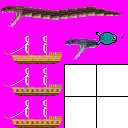
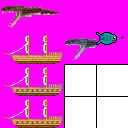
Edited

Changed region(s): [[0.25, 0.0312, 0.9688, 0.1562]]

diff --git a/src/com/breakfastsoftware/kraken/entities/PlayerSegment.java b/src/com/breakfastsoftware/kraken/entities/PlayerSegment.java
@@ -12,12 +12,18 @@ public class PlayerSegment extends Entity {
     protected Entity parent;
 
     public PlayerSegment(Entity parent) {
-        super(parent.getX(), parent.getY()+2, Sprite.PLAYERSEGMENT);
+        super(parent.getX()-Sprite.PLAYERSEGMENT.WIDTH, parent.getY()+2, Sprite.PLAYERSEGMENT);
         this.parent = parent;
     }
 
     public PlayerSegment(Entity parent, int difference) {
-        super(parent.getX(), parent.getY()+2, Sprite.PLAYERSEGMENT);
+        super(parent.getX()-Sprite.PLAYERSEGMENT.WIDTH, parent.getY()+2, Sprite.PLAYERSEGMENT);
+        this.parent = parent;
+        this.difference = difference;
+    }
+
+    public PlayerSegment(Entity parent, int difference, Sprite sprite) {
+        super(parent.getX()-sprite.WIDTH, parent.getY()+2, sprite);
         this.parent = parent;
         this.difference = difference;
     }
@@ -28,7 +34,7 @@ public class PlayerSegment extends Entity {
             y = parent.getY()-1+difference;
         }
         else if (parent.getY() < y-1) {
-            y = parent.getY()+1;
+            y = parent.getY()+1+difference;
         }
         if (Calculations.collision(parent.getX(), parent.getY(), parent.getWidth(), parent.getHeight(), x, y, w, h)) {
             direction = parent.getDirection();

diff --git a/src/com/breakfastsoftware/kraken/entities/Player.java b/src/com/breakfastsoftware/kraken/entities/Player.java
@@ -27,6 +27,9 @@ public class Player extends Entity {
 		segments.add(new PlayerSegment(this, 1));
 		for (int i = 0; i < 7; i++)
 			segments.add(new PlayerSegment(segments.get(i)));
+		segments.add(new PlayerSegment(segments.get(segments.size()-1), 0, Sprite.PLAYERLEGS));
+		segments.add(new PlayerSegment(segments.get(segments.size()-1), 0, Sprite.PLAYERFEET));
+		segments.add(new PlayerSegment(segments.get(segments.size()-1), 0, Sprite.PLAYERTAIL));
 	}
 
 	public void update() {
@@ -87,7 +90,10 @@ public class Player extends Entity {
 				super.move(0, dy);
 			return;
 		}
-		if (dx < 0 && direction == RIGHT) {
+		if (Calculations.collision(x-camera.getX(), 0, w, 5, Kraken.getMouse().getX()/2, 1, 1, 1)) {
+			super.move(0, dy);
+		}
+		else if (dx < 0 && direction == RIGHT) {
 			direction = LEFT;
 			super.move(-w + 3, 0);
 		}
@@ -95,8 +101,9 @@ public class Player extends Entity {
 			direction = RIGHT;
 			super.move(w - 3, 0);
 		}
-		super.move(dx, dy);
 
+		if (!Calculations.collision(x-camera.getX(), 0, w, 5, Kraken.getMouse().getX()/2, 1, 1, 1))
+			super.move(dx, dy);
 		if (y < 230) {
 			y = 230;
 		}

diff --git a/src/com/breakfastsoftware/kraken/res/visuals/Sprite.java b/src/com/breakfastsoftware/kraken/res/visuals/Sprite.java
@@ -7,6 +7,9 @@ public class Sprite {
     public static final Sprite CLOUD = new Sprite(SpriteSheet.TESTING, 0, 0, 238, 70),
     PLAYERHEAD = new Sprite(SpriteSheet.ENTITIES, 1, 5, 22, 22),
     PLAYERSEGMENT = new Sprite(SpriteSheet.ENTITIES, 23, 7, 9, 10),
+    PLAYERLEGS = new Sprite(SpriteSheet.ENTITIES, 32, 7, 9, 8),
+    PLAYERFEET = new Sprite(SpriteSheet.ENTITIES, 41, 9, 9, 6),
+    PLAYERTAIL = new Sprite(SpriteSheet.ENTITIES, 50, 11, 9, 4),
     FRIGATE1 = new Sprite(SpriteSheet.ENTITIES, 0, 64, 64, 32),
     FRIGATE2 = new Sprite(SpriteSheet.ENTITIES, 0, 96, 64, 32),
     BULLET = new Sprite(SpriteSheet.ENTITIES, 121, 36, 3, 3),
